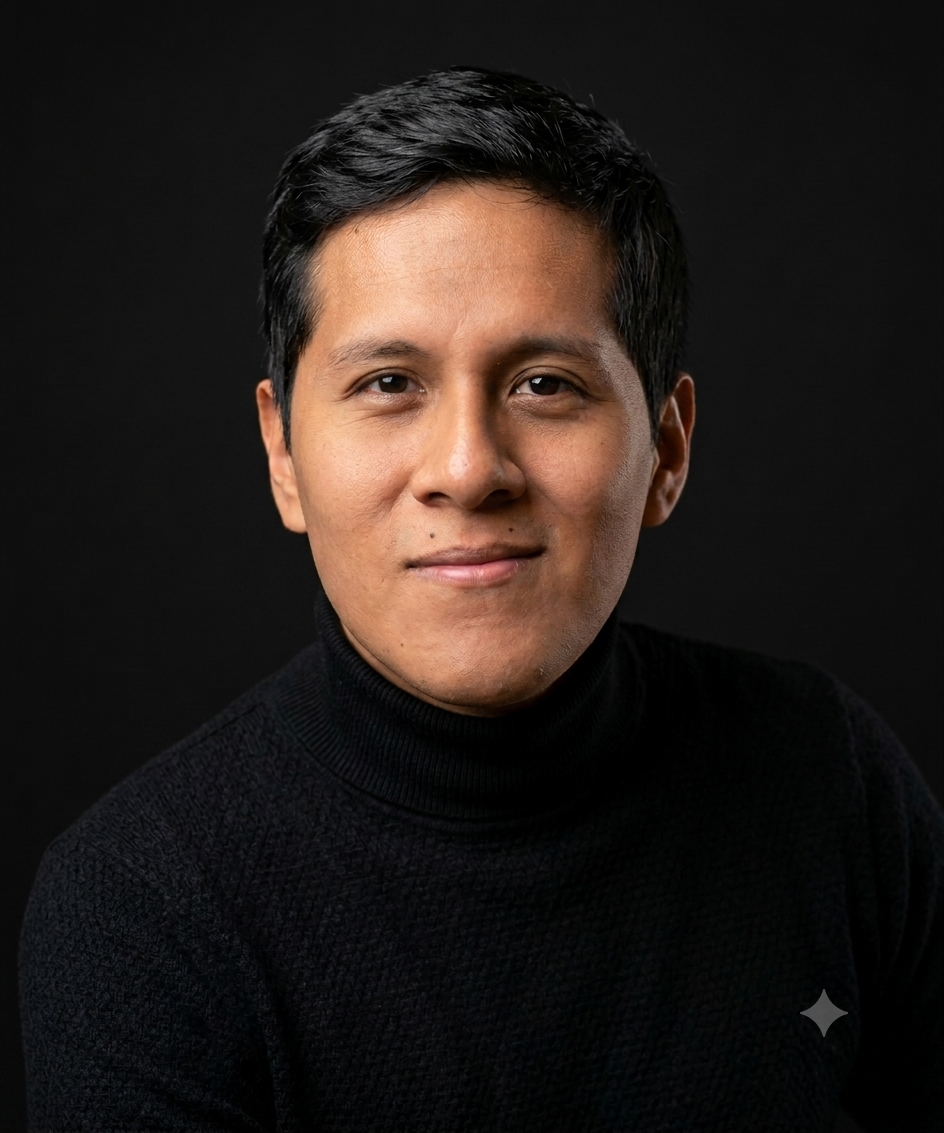
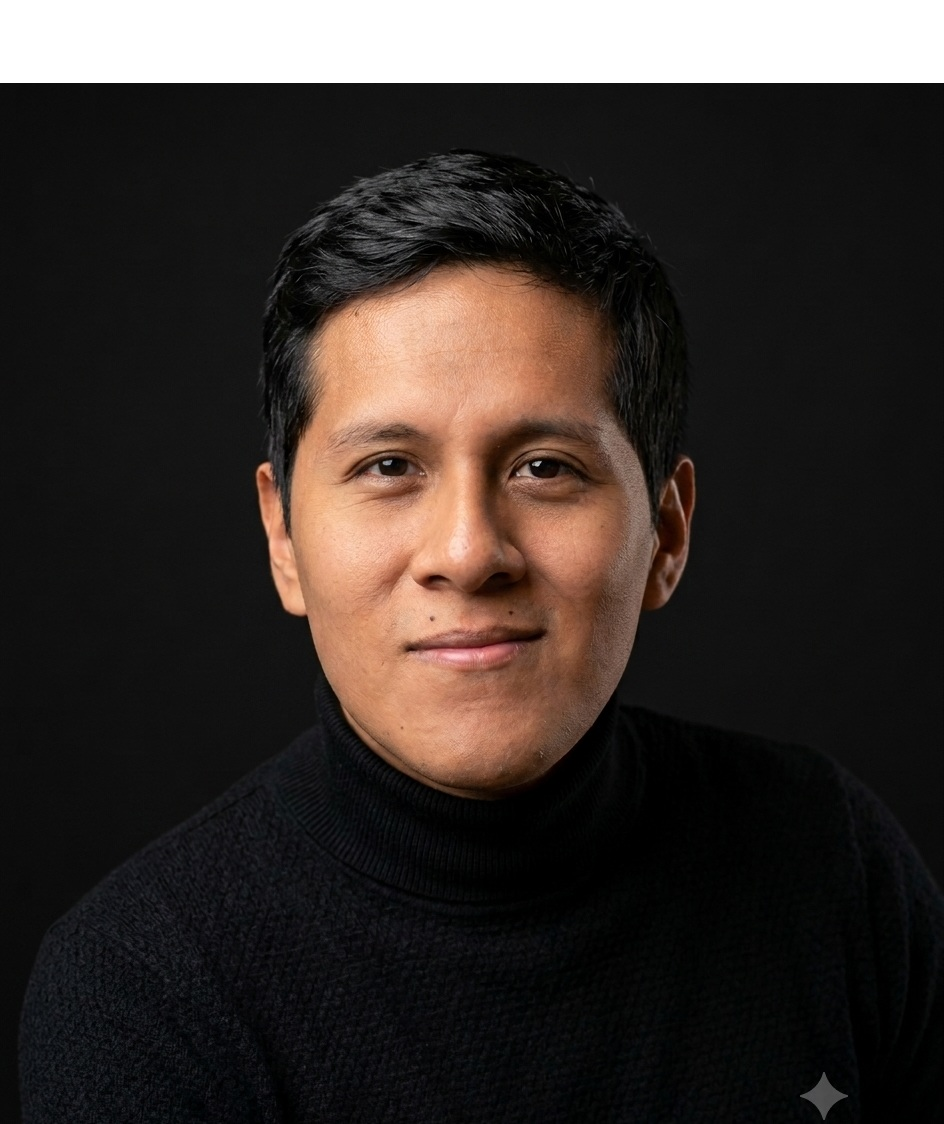
cambiando foto

diff --git a/app/components/EquipoExperiencia.tsx b/app/components/EquipoExperiencia.tsx
@@ -68,7 +68,7 @@ export default function EquipoExperiencia() {
                   src={persona.foto}
                   alt={persona.nombre}
                   fill
-                  className="object-cover object-[center_15%] scale-170"
+                  className="object-cover object-[center_50%] scale-110"
                 />
               </div>
 